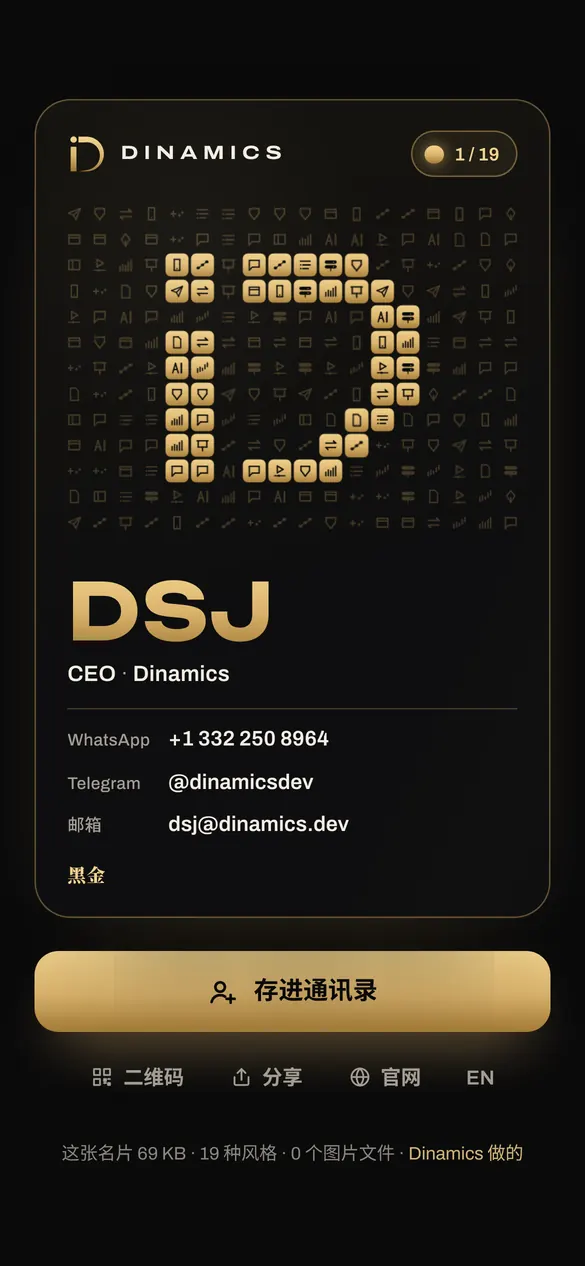
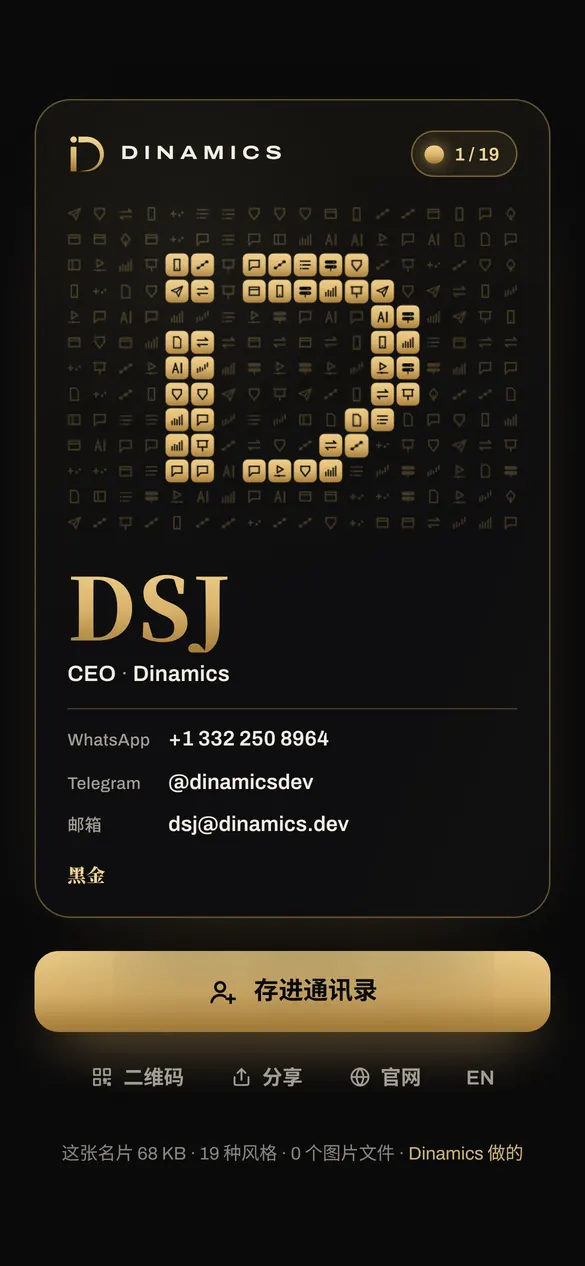
Brand page: e-card shots with the original name fonts

Changed region(s): [[0.1231, 0.4313, 0.4615, 0.5237]]

diff --git a/work/brand.html b/work/brand.html
@@ -149,7 +149,7 @@ DN.on(l=>{Lg=l;$('lgCon').src=l==='zh'?'brand-construction.svg':'brand-construct
 <article class="wk">
   <div class="shot"><div class="browser"><div class="bar"><i></i><i></i><i></i><span>dinamics.dev/dsj</span></div><img src="shot-ecard-d.webp" width="1440" height="900" loading="lazy" alt=""></div>
   <div class="phone"><img src="shot-ecard-m.webp" width="585" height="1266" loading="lazy" alt=""></div></div>
-  <div class="wtext"><h3 data-t="w_ecard_n">电子名片</h3><p data-t="w_ecard_p">会自己换风格的电子名片：19 种风格轮流换，名片上的马赛克由十八门手艺的图标拼成，转动手机，名片跟着转。一点存进通讯录，背面扫码就能打开，中英文自动切换。整张名片 69 KB，没有一个图片文件。团队每个人都能有一张，新同事入职当天就有。</p><div class="meta"><span class="chip" data-t="w_ecard_c0">19 种风格</span><span class="chip" data-t="w_ecard_c1">一点存进通讯录</span><span class="chip" data-t="w_ecard_c2">中英文</span></div>
+  <div class="wtext"><h3 data-t="w_ecard_n">电子名片</h3><p data-t="w_ecard_p">会自己换风格的电子名片：19 种风格轮流换，名片上的马赛克由十八门手艺的图标拼成，转动手机，名片跟着转。一点存进通讯录，背面扫码就能打开，中英文自动切换。整张名片 68 KB，没有一个图片文件。团队每个人都能有一张，新同事入职当天就有。</p><div class="meta"><span class="chip" data-t="w_ecard_c0">19 种风格</span><span class="chip" data-t="w_ecard_c1">一点存进通讯录</span><span class="chip" data-t="w_ecard_c2">中英文</span></div>
   <a class="open" href="https://dinamics.dev/dsj" target="_blank" rel="noopener" data-t="w_ecard_open">打开 dinamics.dev/dsj</a></div>
 </article></div></section>
 <section class="band talk"><div class="wrap">
@@ -161,7 +161,7 @@ DN.on(l=>{Lg=l;$('lgCon').src=l==='zh'?'brand-construction.svg':'brand-construct
 </div></section>
 </main>
 <footer><a class="brand" href="/" aria-label="Dinamics"><svg class="lockup" viewBox="0 0 1483 248"><use href="#lk"/></svg></a><span data-t="foot">Dinamics 是 <a href="https://dsj.vc">DSJ Ventures</a> 投资的企业。</span><span>© 2026 Dinamics</span></footer>
-<script>window.PAGE={"zh":{"all":"十八般技术","talkBtn":"说说你要做的事","first":"首版","h2w":"我们做的，已经在线上","subw":"点进去就能用。","open":"打开 {h}","h2t":"你要做的事，说给我们听。","pt":"发一封邮件，说说你想做什么。","mailBtn":"写信给我们","h2m":"另外十七门","subm":"亮着的都能点进去；暗着的，正在做。","prev":"上一项","next":"下一项","foot":"Dinamics 是 <a href=\"https://dsj.vc\">DSJ Ventures</a> 投资的企业。","home":"回首页","title":"品牌 Logo · Dinamics","meta":"品牌 Logo：Logo、品牌规范、海报","name":"品牌 Logo","desc":"Logo、品牌规范、海报","eta":"1–5 天","big":"68%","sent":"品牌在各处呈现一致，68% 的公司说因此多了 10–20% 的收入。","src":"Marq（原 Lucidpress）调查","num":"<b>09</b> / 18","c1":"官网","c2":"网页平台","c3":"手机 App","c4":"聊天机器人","c5":"Mini App","c6":"AI 智能体","c7":"自动化","c8":"数据看板","c9":"品牌 Logo","c10":"界面设计","c11":"游戏","c12":"商务文档","c13":"路演 PPT","c14":"交易系统","c15":"智能合约","c16":"视频内容","c17":"服务器与安全","c18":"硬件与网络","lg_h":"i 上那一点飞出去，画出了 D","lg_s":"Dinamics 的标志就是一个动作：点从 i 上飞出去，绕一圈，轨迹越走越细，画成 D，再回到 i 上。拖一下，看它一步步画出来。","lg_play":"再画一次","lg_range":"拖动看标志画出来","lg_ch":"每一笔都有尺寸","lg_cs":"整个标志只用一个单位 s（竖笔的宽）：高 6s，点 1.1s，外圈半径 3s。放大缩小都不走样。","br_h":"三个品牌，三套颜色","br_s":"点一下色块，就复制它的色号。","br_dn":"Dinamics","br_dn_p":"黑底，金色渐变，米白的字","br_zr":"零九零","br_zr_p":"九个零排成方阵，正中间那个叠一个 x","br_px":"牌所 PHRAX","br_px_p":"庙顶、金叶、绿宝石，泰文副标","va_h":"同一个标志，三种用法","va_1":"金色，黑底","va_2":"黑色，米白底","va_3":"白色，金底","copied":"已复制 {c}","w_ecard_n":"电子名片","w_ecard_p":"会自己换风格的电子名片：19 种风格轮流换，名片上的马赛克由十八门手艺的图标拼成，转动手机，名片跟着转。一点存进通讯录，背面扫码就能打开，中英文自动切换。整张名片 69 KB，没有一个图片文件。团队每个人都能有一张，新同事入职当天就有。","w_ecard_open":"打开 dinamics.dev/dsj","w_ecard_c0":"19 种风格","w_ecard_c1":"一点存进通讯录","w_ecard_c2":"中英文"},"en":{"all":"Eighteen crafts","talkBtn":"Tell us what you're building","first":"First version","h2w":"What we've built, live now","subw":"Click through and use them.","open":"Open {h}","h2t":"Tell us what you're building.","pt":"Send us an email and tell us what you have in mind.","mailBtn":"Email us","h2m":"The other seventeen","subm":"The lit ones open; the dim ones are being built.","prev":"Previous","next":"Next","foot":"Dinamics is a <a href=\"https://dsj.vc\">DSJ Ventures</a> portfolio company.","home":"Home","title":"Brand and logo · Dinamics","meta":"Brand and logo: Logos, brand guidelines, posters","name":"Brand and logo","desc":"Logos, brand guidelines, posters","eta":"1–5 days","big":"68%","sent":"Of companies with a consistent brand, 68% say it added 10–20% to revenue.","src":"Marq (formerly Lucidpress) survey","num":"<b>09</b> / 18","c1":"Websites","c2":"Web platforms","c3":"Mobile apps","c4":"Chatbots","c5":"Mini Apps","c6":"AI agents","c7":"Automation","c8":"Data dashboards","c9":"Brand and logo","c10":"Interface design","c11":"Games","c12":"Business documents","c13":"Pitch decks","c14":"Trading systems","c15":"Smart contracts","c16":"Video","c17":"Servers and security","c18":"Hardware and networks","lg_h":"The dot of the i flies out and draws the D","lg_s":"The Dinamics mark is one movement: the dot leaves the i, loops round, its trail thinning as it goes, draws the D and lands back on the i. Drag to watch it drawn step by step.","lg_play":"Draw it again","lg_range":"Drag to draw the mark","lg_ch":"Every stroke has a size","lg_cs":"The whole mark runs on one unit, s, the width of the stem: 6s tall, a 1.1s dot, a 3s outer radius. It holds its shape at any size.","br_h":"Three brands, three palettes","br_s":"Tap a swatch to copy its colour code.","br_dn":"Dinamics","br_dn_p":"Onyx, a gold gradient, ivory type","br_zr":"0x000000000","br_zr_p":"Nine zeros in a square, an x over the middle one","br_px":"PHRAX","br_px_p":"Temple roof, gold leaf, an emerald, Thai subtitle","va_h":"One mark, three ways to use it","va_1":"Gold on onyx","va_2":"Black on ivory","va_3":"White on gold","copied":"Copied {c}","w_ecard_n":"E-card","w_ecard_p":"A business card that changes its own style: 19 styles in turn, a mosaic made of the icons of our eighteen crafts, and it turns as you tilt the phone. Save the contact in one tap, scan the back to open it, in Chinese or English. The whole card is 69 KB with no image files. Everyone on a team can have one, from their first day.","w_ecard_open":"Open dinamics.dev/dsj","w_ecard_c0":"19 styles","w_ecard_c1":"Save in one tap","w_ecard_c2":"Chinese and English"},"g0":[[22,42,22,88,11,0],[22,17,22,17,13,0],[37,14,52,14,10,0],[52.0,14.0,63.4,15.8,11.5,0],[63.4,15.8,73.7,21.1,11.2,0],[73.7,21.1,81.9,29.3,10.7,0],[81.9,29.3,87.2,39.6,10.0,0],[87.2,39.6,89.0,51.0,9.1,0],[89.0,51.0,87.2,62.4,8.1,0],[87.2,62.4,81.9,72.7,6.9,0],[81.9,72.7,73.7,80.9,5.5,0],[73.7,80.9,63.4,86.2,4.0,0],[63.4,86.2,52.0,88.0,2.4,0],[52,88,36,88,1.5,0]],"g":[[50,86,26,46,7,0],[26,46,50,16,7,0],[50,16,74,46,7,0],[74,46,50,86,7,0],[50,86,50,56,7,0],[50,86,26,46,0,0],[26,46,50,16,0,0],[50,16,74,46,0,0],[74,46,50,86,0,0],[50,86,50,56,0,0],[50,86,26,46,0,0],[26,46,50,16,0,0],[50,16,74,46,0,0],[74,46,50,86,0,0]]};</script>
+<script>window.PAGE={"zh":{"all":"十八般技术","talkBtn":"说说你要做的事","first":"首版","h2w":"我们做的，已经在线上","subw":"点进去就能用。","open":"打开 {h}","h2t":"你要做的事，说给我们听。","pt":"发一封邮件，说说你想做什么。","mailBtn":"写信给我们","h2m":"另外十七门","subm":"亮着的都能点进去；暗着的，正在做。","prev":"上一项","next":"下一项","foot":"Dinamics 是 <a href=\"https://dsj.vc\">DSJ Ventures</a> 投资的企业。","home":"回首页","title":"品牌 Logo · Dinamics","meta":"品牌 Logo：Logo、品牌规范、海报","name":"品牌 Logo","desc":"Logo、品牌规范、海报","eta":"1–5 天","big":"68%","sent":"品牌在各处呈现一致，68% 的公司说因此多了 10–20% 的收入。","src":"Marq（原 Lucidpress）调查","num":"<b>09</b> / 18","c1":"官网","c2":"网页平台","c3":"手机 App","c4":"聊天机器人","c5":"Mini App","c6":"AI 智能体","c7":"自动化","c8":"数据看板","c9":"品牌 Logo","c10":"界面设计","c11":"游戏","c12":"商务文档","c13":"路演 PPT","c14":"交易系统","c15":"智能合约","c16":"视频内容","c17":"服务器与安全","c18":"硬件与网络","lg_h":"i 上那一点飞出去，画出了 D","lg_s":"Dinamics 的标志就是一个动作：点从 i 上飞出去，绕一圈，轨迹越走越细，画成 D，再回到 i 上。拖一下，看它一步步画出来。","lg_play":"再画一次","lg_range":"拖动看标志画出来","lg_ch":"每一笔都有尺寸","lg_cs":"整个标志只用一个单位 s（竖笔的宽）：高 6s，点 1.1s，外圈半径 3s。放大缩小都不走样。","br_h":"三个品牌，三套颜色","br_s":"点一下色块，就复制它的色号。","br_dn":"Dinamics","br_dn_p":"黑底，金色渐变，米白的字","br_zr":"零九零","br_zr_p":"九个零排成方阵，正中间那个叠一个 x","br_px":"牌所 PHRAX","br_px_p":"庙顶、金叶、绿宝石，泰文副标","va_h":"同一个标志，三种用法","va_1":"金色，黑底","va_2":"黑色，米白底","va_3":"白色，金底","copied":"已复制 {c}","w_ecard_n":"电子名片","w_ecard_p":"会自己换风格的电子名片：19 种风格轮流换，名片上的马赛克由十八门手艺的图标拼成，转动手机，名片跟着转。一点存进通讯录，背面扫码就能打开，中英文自动切换。整张名片 68 KB，没有一个图片文件。团队每个人都能有一张，新同事入职当天就有。","w_ecard_open":"打开 dinamics.dev/dsj","w_ecard_c0":"19 种风格","w_ecard_c1":"一点存进通讯录","w_ecard_c2":"中英文"},"en":{"all":"Eighteen crafts","talkBtn":"Tell us what you're building","first":"First version","h2w":"What we've built, live now","subw":"Click through and use them.","open":"Open {h}","h2t":"Tell us what you're building.","pt":"Send us an email and tell us what you have in mind.","mailBtn":"Email us","h2m":"The other seventeen","subm":"The lit ones open; the dim ones are being built.","prev":"Previous","next":"Next","foot":"Dinamics is a <a href=\"https://dsj.vc\">DSJ Ventures</a> portfolio company.","home":"Home","title":"Brand and logo · Dinamics","meta":"Brand and logo: Logos, brand guidelines, posters","name":"Brand and logo","desc":"Logos, brand guidelines, posters","eta":"1–5 days","big":"68%","sent":"Of companies with a consistent brand, 68% say it added 10–20% to revenue.","src":"Marq (formerly Lucidpress) survey","num":"<b>09</b> / 18","c1":"Websites","c2":"Web platforms","c3":"Mobile apps","c4":"Chatbots","c5":"Mini Apps","c6":"AI agents","c7":"Automation","c8":"Data dashboards","c9":"Brand and logo","c10":"Interface design","c11":"Games","c12":"Business documents","c13":"Pitch decks","c14":"Trading systems","c15":"Smart contracts","c16":"Video","c17":"Servers and security","c18":"Hardware and networks","lg_h":"The dot of the i flies out and draws the D","lg_s":"The Dinamics mark is one movement: the dot leaves the i, loops round, its trail thinning as it goes, draws the D and lands back on the i. Drag to watch it drawn step by step.","lg_play":"Draw it again","lg_range":"Drag to draw the mark","lg_ch":"Every stroke has a size","lg_cs":"The whole mark runs on one unit, s, the width of the stem: 6s tall, a 1.1s dot, a 3s outer radius. It holds its shape at any size.","br_h":"Three brands, three palettes","br_s":"Tap a swatch to copy its colour code.","br_dn":"Dinamics","br_dn_p":"Onyx, a gold gradient, ivory type","br_zr":"0x000000000","br_zr_p":"Nine zeros in a square, an x over the middle one","br_px":"PHRAX","br_px_p":"Temple roof, gold leaf, an emerald, Thai subtitle","va_h":"One mark, three ways to use it","va_1":"Gold on onyx","va_2":"Black on ivory","va_3":"White on gold","copied":"Copied {c}","w_ecard_n":"E-card","w_ecard_p":"A business card that changes its own style: 19 styles in turn, a mosaic made of the icons of our eighteen crafts, and it turns as you tilt the phone. Save the contact in one tap, scan the back to open it, in Chinese or English. The whole card is 68 KB with no image files. Everyone on a team can have one, from their first day.","w_ecard_open":"Open dinamics.dev/dsj","w_ecard_c0":"19 styles","w_ecard_c1":"Save in one tap","w_ecard_c2":"Chinese and English"},"g0":[[22,42,22,88,11,0],[22,17,22,17,13,0],[37,14,52,14,10,0],[52.0,14.0,63.4,15.8,11.5,0],[63.4,15.8,73.7,21.1,11.2,0],[73.7,21.1,81.9,29.3,10.7,0],[81.9,29.3,87.2,39.6,10.0,0],[87.2,39.6,89.0,51.0,9.1,0],[89.0,51.0,87.2,62.4,8.1,0],[87.2,62.4,81.9,72.7,6.9,0],[81.9,72.7,73.7,80.9,5.5,0],[73.7,80.9,63.4,86.2,4.0,0],[63.4,86.2,52.0,88.0,2.4,0],[52,88,36,88,1.5,0]],"g":[[50,86,26,46,7,0],[26,46,50,16,7,0],[50,16,74,46,7,0],[74,46,50,86,7,0],[50,86,50,56,7,0],[50,86,26,46,0,0],[26,46,50,16,0,0],[50,16,74,46,0,0],[74,46,50,86,0,0],[50,86,50,56,0,0],[50,86,26,46,0,0],[26,46,50,16,0,0],[50,16,74,46,0,0],[74,46,50,86,0,0]]};</script>
 <script src="work.js?v=79395d29ca"></script>
 </body>
 </html>
